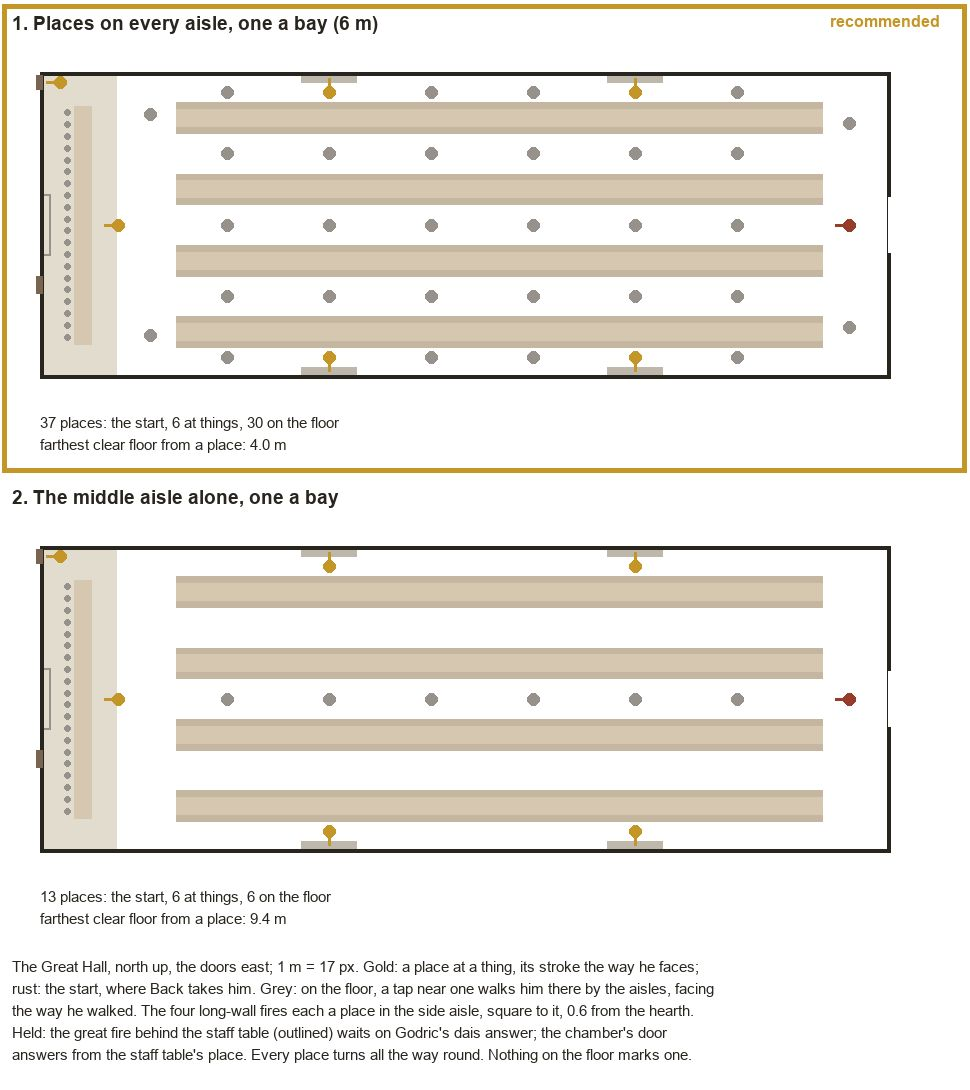
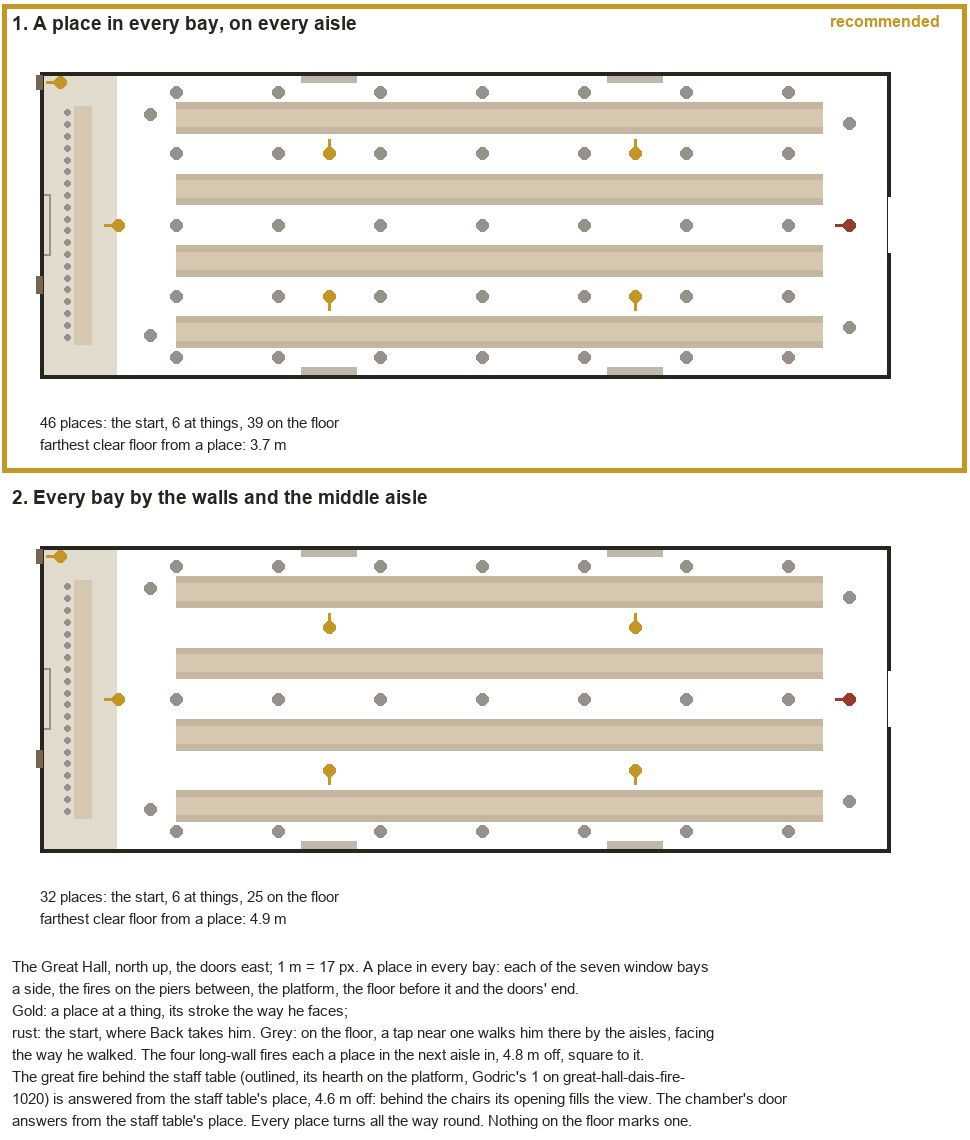
Great Hall: walking freely (46 places), the great fire on the platform; sheets greathall-places-1020 and greathall-fire-place-1020

diff --git a/page/great-hall.html b/page/great-hall.html
@@ -132,12 +132,12 @@ shot before anything is spent.
 <div id="help">Drag to look around.</div>
 <script src="https://cdnjs.cloudflare.com/ajax/libs/three.js/r128/three.min.js"></script>
 <script src="castle.js?v=15"></script>
-<script src="castle-model.js?v=390"></script>
-<script src="castle-paint.js?v=3"></script>
+<script src="castle-model.js?v=392"></script>
+<script src="castle-paint.js?v=4"></script>
 <script src="design/tones.js?v=2"></script>
 <script src="design/ceilings.js?v=2"></script>
 <script src="castle-shell.js?v=33"></script>
-<script src="castle-events.js?v=38"></script>
+<script src="castle-events.js?v=39"></script>
 <script src="castle-sound.js?v=1"></script>
 <script>
 (function () {
@@ -741,17 +741,18 @@ var staffL = new THREE.PointLight(0xffc27a, 0, 14, 1.6); staffL.position.copy(P(
    architect-fires-1020, 20 October 2026, 11.55 am; the Architect's req 746), drawn as shell.html's FIRES draws them: a
    four-centred head under a frieze in the hall's stone, the mantel shelf, the opening dark, the hearth stone into the
    hall. Cold and swept; the fire's light is Design's and the hour's, asked first. The great one behind the staff table
-   (great-hall-fire-w) waits on Godric's word on the dais (great-hall-dais-fire-1020). One group, no tap lands on it. */
+   (great-hall-fire-w) stands on the platform, its foot the model's sill (Godric's 1 on great-hall-dais-fire-1020,
+   12.51 pm; model v74). A tap on a fire walks him to its place (req 720); out.meshes are the pieces a tap finds. */
 var FIRES = (function () {
-  var out = { n: 0 };
-  var fs = MODEL.features.filter(function (f) { return f.room === PLACE && /^great-hall-fire-[ns]-/.test(f.id); });
+  var out = { n: 0, meshes: [] };
+  var fs = MODEL.features.filter(function (f) { return f.room === PLACE && /^great-hall-fire-/.test(f.id); });
   var g = new THREE.Group(); g.name = 'hall-fires'; scene.add(g);
   var T = window.CASTLE_TONES && CASTLE_TONES.surfaces && CASTLE_TONES.surfaces['high-grey'];
   var stone = kit.solid(T ? parseInt(T.hex.slice(1), 16) : 0xb9b4aa), dark = kit.solid(0x15130f), z0 = shell.place.floor;
   var up = new THREE.Vector3(0, 1, 0);
   fs.forEach(function (f) {
     var c = { 0: [0, -1], 180: [0, 1], 270: [1, 0], 90: [-1, 0] }[f.compass], w = f.w, ow = f.opening[0] / 2, oh = f.opening[1];
-    var o = shell.toLocal(f.at[0], f.at[1], z0), inn = shell.toLocal(f.at[0] + c[0], f.at[1] + c[1], z0).sub(o).normalize();
+    var o = shell.toLocal(f.at[0], f.at[1], z0 + (f.sill || 0)), inn = shell.toLocal(f.at[0] + c[0], f.at[1] + c[1], z0).sub(o).normalize();
     var along = new THREE.Vector3().crossVectors(up, inn);
     var q = new THREE.Group(); q.matrixAutoUpdate = false;
     q.matrix.makeBasis(along, up, inn).setPosition(o); g.add(q);
@@ -760,7 +761,7 @@ var FIRES = (function () {
     sh.quadraticCurveTo(-ow * 0.97, oh * 0.92, -sp, oh * 0.96); sh.lineTo(0, oh); sh.lineTo(sp, oh * 0.96);
     sh.quadraticCurveTo(ow * 0.97, oh * 0.92, ow, oh * 0.72); sh.lineTo(ow, -0.01); sh.lineTo(hw, -0.01);
     sh.lineTo(hw, f.mantel); sh.lineTo(-hw, f.mantel); sh.lineTo(-hw, -0.01);
-    function piece(geo, mt, x, y, z) { var m = new THREE.Mesh(geo, mt); m.position.set(x, y, z); m.userData.owner = PLACE; q.add(m); out.n++; return m; }
+    function piece(geo, mt, x, y, z) { var m = new THREE.Mesh(geo, mt); m.position.set(x, y, z); m.userData.owner = PLACE; m.userData.fire = f.id; q.add(m); out.meshes.push(m); out.n++; return m; }
     piece(new THREE.ExtrudeGeometry(sh, { depth: 0.2, bevelEnabled: false, curveSegments: 8 }), stone, 0, 0, -0.02);
     piece(new THREE.BoxGeometry(w + 0.3, 0.1, 0.36), stone, 0, f.mantel + 0.05, 0.16);                 /* the mantel shelf */
     piece(new THREE.BoxGeometry(w, f.h - f.mantel - 0.1, 0.12), stone, 0, (f.mantel + 0.1 + f.h) / 2, 0.04);   /* the frieze */
@@ -990,18 +991,100 @@ function startLeg() {
   var to = legs.shift(), from = { pos: camera.position.clone(), look: lookTmp.clone() }, dist = from.pos.distanceTo(to.pos);
   tween = { t: 0, dur: clamp(0.8 + dist * 0.08, 0.8, 4.5), from: from, to: to };
 }
-/* up the middle aisle, looking ahead along it at the walk's own height (Interaction: no stand mid-hall) */
+/* ================= walking freely (req 720; docs/interaction-vocabulary.md §2; Godric's 1 on greathall-places-1020,
+   12.54 pm, and his every-bay rule of the same minute): a place at every thing he can tap, square to it, and one in
+   every bay on every aisle (the bays' middles, x 23 to 59, the model's vault piers every 6 m between them), the floor
+   before the platform and the doors' end; the plan is tools/greathall-places.py, its numbers drawn from S here. A tap on
+   a thing walks him to its place; a tap on the floor to the nearest place, by the aisles and round the tables' ends,
+   arriving facing the way he walked; a tap on a wall or the air keeps him where he is. Every place turns all the way
+   round. Only Back takes him to the start. Nothing marks a place. */
+var O0 = shell.toLocal(0, 0, 0), EX = shell.toLocal(1, 0, 0).sub(O0), EY = shell.toLocal(0, 1, 0).sub(O0);
+function toModel(v) {   /* the shell's local point back to the model's x, y (the frame is a plane turn and a shift) */
+  var a = v.x - O0.x, b = v.z - O0.z, det = EX.x * EY.z - EY.x * EX.z;
+  return [(a * EY.z - EY.x * b) / det, (EX.x * b - a * EX.z) / det];
+}
+var EYE = START.pos.y - P(0, 0, shell.place.floor).y, DAIS_TOP = S.dais.h, ROUND = { down: -30, up: 80, turn: 180 };
+var AISLE = [], SIDE_N = 68.3, SIDE_S = 52.7, FRONT_X = 21.5, BACK_X = 62.6;
+for (var ai = 0; ai < S.tables.length - 1; ai++) AISLE.push((S.tables[ai][1] + S.tables[ai + 1][1]) / 2);
+AISLE = [SIDE_N].concat(AISLE, [SIDE_S]);   /* 68.3, 64.7, 60.5, 56.3, 52.7: between the outer benches and the hearths */
+function onDais(x) { return x < S.dais.x1; }
+function eyeAt(x, y) { return P(x, y, shell.place.floor + (onDais(x) ? DAIS_TOP : 0) + EYE); }
+function place(name, x, y, face) {
+  var pos = eyeAt(x, y);
+  return { name: name, xy: [x, y], pos: pos, look: face ? eyeAt(x + face[0] * 10, y + face[1] * 10) : pos.clone(), lim: ROUND, floor: !face };
+}
+[START, STAFF_STAND, PANEL && PANEL.stand].forEach(function (s) { if (s) { s.xy = toModel(s.pos); s.lim = Object.assign({}, s.lim, { turn: 180 }); } });
+var PLACES = [START, STAFF_STAND].concat(PANEL ? [PANEL.stand] : []), FIRE_PLACE = {};
+MODEL.features.filter(function (f) { return f.room === PLACE && /^great-hall-fire-/.test(f.id); }).forEach(function (f) {
+  var c = { 0: [0, 1], 180: [0, -1], 270: [-1, 0], 90: [1, 0] }[f.compass];
+  /* the great one's place is the staff table's, square to it over the gold chair 4.6 m off: behind the chairs the
+     platform leaves 1 m to its hearth, where its dark opening fills the whole view */
+  if (f.compass === 270) { FIRE_PLACE[f.id] = STAFF_STAND; return; }
+  /* a long-wall fire's place stands in the next aisle in, 4.8 m off across the house table, the fire whole in view:
+     from the side aisle, 1.2 m off, its dark opening fills the view (provisional, Godric to confirm: greathall-fire-place-1020) */
+  var p = place(f.id, f.at[0], f.compass === 0 ? AISLE[1] : AISLE[3], c);
+  FIRE_PLACE[f.id] = p; PLACES.push(p);
+});
+var FLOOR = [];
+AISLE.forEach(function (y) { [23, 29, 35, 41, 47, 53, 59].forEach(function (x) { FLOOR.push(place('floor ' + (FLOOR.length + 1), x, y)); }); });
+[[FRONT_X, 54.0], [FRONT_X, 67.0], [BACK_X, 54.5], [BACK_X, 66.5]].forEach(function (q) { FLOOR.push(place('floor ' + (FLOOR.length + 1), q[0], q[1])); });
+PLACES = PLACES.concat(FLOOR);
+/* the way between two points of the plan: along an aisle, round the tables' nearer end, up the platform's steps by its
+   north end (clear of the staff table and its chairs) */
+function zone(p) { return onDais(p[0]) ? 'dais' : p[0] < S.tx0 - 0.1 ? 'front' : p[0] > S.tx1 + 0.1 ? 'back' : 'aisle'; }
+function aisleOf(p) { return AISLE.reduce(function (b, y) { return Math.abs(y - p[1]) < Math.abs(b - p[1]) ? y : b; }, AISLE[0]); }
+function route(a, b) {
+  var za = zone(a), zb = zone(b), pts = [];
+  if (za === 'dais' || zb === 'dais') {
+    if (za === 'dais' && zb === 'dais') return [b];
+    var up = [[S.dais.x1 - 0.7, 68.6], [S.dais.x1 + 0.4, 68.6]];
+    if (za === 'dais') return [[16.0, 68.6], up[0], up[1]].concat(route(up[1], b));
+    return route(a, up[1]).concat([up[0], [16.0, 68.6], b]);
+  }
+  if (za === 'aisle' && zb === 'aisle' && aisleOf(a) === aisleOf(b)) return [b];
+  if (za !== 'aisle' && zb !== 'aisle') {
+    if (za === zb) return [b];
+    var ex0 = za === 'front' ? FRONT_X : BACK_X, ex1 = zb === 'front' ? FRONT_X : BACK_X;
+    return [[ex0, 60.5], [ex1, 60.5], b];
+  }
+  var ex;
+  if (za !== 'aisle') ex = za === 'front' ? FRONT_X : BACK_X;
+  else if (zb !== 'aisle') ex = zb === 'front' ? FRONT_X : BACK_X;
+  else ex = (Math.abs(a[0] - FRONT_X) + Math.abs(b[0] - FRONT_X)) <= (Math.abs(a[0] - BACK_X) + Math.abs(b[0] - BACK_X)) ? FRONT_X : BACK_X;
+  if (za === 'aisle') pts.push([ex, aisleOf(a)]);
+  if (zb === 'aisle') pts.push([ex, aisleOf(b)]);
+  pts.push(b);
+  return pts;
+}
 function walkTo(s) {
   if (!s || s === here) return false;
   if (PANEL && here === PANEL.stand && panelOpen) panelShow(false);   /* it shuts behind him (provisional) */
+  var from = here.xy || toModel(here.pos), pts = route(from, s.xy || toModel(s.pos)), prev = from;
   legs = []; here = s; hy = hyT = hp = hpT = 0;
-  var fp = new THREE.Vector3(), fl = new THREE.Vector3(); headPose(fp, fl);
-  legs.push({ pos: fp, look: fl });
+  pts.forEach(function (q, i) {
+    var pos = eyeAt(q[0], q[1]), last = i === pts.length - 1;
+    var dir = pos.clone().sub(eyeAt(prev[0], prev[1])); dir.y = 0;
+    if (last && s.floor && dir.lengthSq() > 1e-4) s.look = pos.clone().add(dir.setLength(10));   /* facing the way he walked */
+    if (last) { var fp = new THREE.Vector3(), fl = new THREE.Vector3(); headPose(fp, fl); legs.push({ pos: fp, look: fl }); }
+    else {
+      var nx = pts[i + 1], ahead = eyeAt(nx[0], nx[1]);
+      legs.push({ pos: pos, look: ahead.clone().sub(pos).setLength(10).add(pos) });
+    }
+    prev = q;
+  });
   backBtn.hidden = s === START;
   startLeg();
   return true;
 }
-function goBack() { if (here === START) { hyT = hpT = 0; return; } walkTo(PANEL && here === PANEL.stand ? STAFF_STAND : START); }
+function nearestPlace(pt) {   /* a floor tap: the nearest place on the hall's floor to where his finger lifted */
+  var xy = toModel(pt), best = null, bd = 1e9;
+  PLACES.forEach(function (s) {
+    if (!s.xy || onDais(s.xy[0])) return;
+    var d = Math.hypot(s.xy[0] - xy[0], s.xy[1] - xy[1]); if (d < bd) { bd = d; best = s; }
+  });
+  return best;
+}
+function goBack() { if (here === START) { hyT = hpT = 0; return; } walkTo(START); }
 var DRY = Q.get('travel') === 'dry', wentTo = '';   /* ?travel=dry: the veil falls and lifts, nothing loads, for a check */
 function through(d) {
   wentTo = (d.page || 'shell.html?place=' + encodeURIComponent(d.to)) + (d.page ? '?' : '&') + 'from=' + encodeURIComponent(PLACE);
@@ -1142,27 +1225,32 @@ function tap(cx, cy) {
   var r = canvas.getBoundingClientRect();
   pointer.set(((cx - r.left) / r.width) * 2 - 1, -((cy - r.top) / r.height) * 2 + 1);
   raycaster.setFromCamera(pointer, camera);
-  var hits = raycaster.intersectObjects(shell.group.children.concat(tapTop, doorway ? [doorway] : []), false).filter(function (h) { return h.object.visible || h.object.userData.way; });
+  var hits = raycaster.intersectObjects(shell.group.children.concat(tapTop, FIRES.meshes, doorway ? [doorway] : []), false).filter(function (h) { return h.object.visible || h.object.userData.way; });
   var hit = hits.length ? hits[0].object : null, acted = false;
-  /* a candle or the sky answers where it is, told and given the mote, never taking him back (req 608, break 3); only
-     the floor, the walls and the benches are nothing at a stop */
+  /* a candle or the sky answers where it is, told and given the mote, never taking him back (req 608, break 3); the
+     floor walks him to its nearest place (req 720), a wall keeps him where he is */
   var high = candleOnRay(raycaster.ray, hits.length ? hits[0].distance : 1e9) ? 'candle' : hit && hit === ceiling ? 'sky' : '';
   var isDoors = hit && DOOR && (hit === doorway || hit === DOOR.mesh), isPanel = !!(hit && PANEL && hit === PANEL.mesh);
   var wi = hit && !isDoors ? wayMeshes.indexOf(hit) : -1;
   if (high) { /* the mote, nothing else, until Magic's answer */ }
   else if (isPanel && here === PANEL.stand) acted = true;
-  else if (isPanel && here === STAFF_STAND) acted = walkTo(PANEL.stand);
-  else if (isDoors) {   /* the great doors: through from their stand, back to it from the staff table (§2) */
-    if (here === START || here === DOOR.stand) { goThroughDoors(); acted = true; } else { goBack(); acted = true; }
+  else if (isPanel) acted = walkTo(PANEL.stand);
+  else if (isDoors) {   /* the great doors: through from their place (the start), walked to it from anywhere else (§2) */
+    if (here === START || here === DOOR.stand) { goThroughDoors(); acted = true; } else acted = walkTo(START);
   } else if (wi >= 0) {
     var d = ways[wi];
     if (here === d.stand || here === START) { if (d.mesh.userData.way && d.built) { through(d); acted = true; } }
+    else acted = walkTo(d.stand && PLACES.indexOf(d.stand) >= 0 ? d.stand : START);
+  } else if (hit && hit.userData.fire) {   /* a fire: walk to its place, square to it; at it, told where he is */
+    acted = here === FIRE_PLACE[hit.userData.fire] || walkTo(FIRE_PLACE[hit.userData.fire]);
   } else if (hit && tapTop.indexOf(hit) >= 0) {   /* the platform, the staff table, the gold chair: walk up to them, or at */
-    if (here === START || (PANEL && here === PANEL.stand)) acted = walkTo(STAFF_STAND);   /* their stop answer where they are (req 608, break 2) */
-  } else if (here !== START) { goBack(); acted = true; }
+    if (here !== STAFF_STAND) acted = walkTo(STAFF_STAND);   /* their place answer where they are (req 608, break 2) */
+  } else if (hit && hits[0].face && hits[0].face.normal.clone().transformDirection(hit.matrixWorld).y > 0.7) {
+    acted = walkTo(nearestPlace(hits[0].point));   /* the floor: the nearest place, by the aisles */
+  }   /* a wall or the air: he stays, with the mote */
   /* every tap on a thing is told to the runtime (Interaction's §10, req 479): the platform, the staff table, the gold
      chair, the doors' way, the sky and a candle, by their names with spaces, so a record waiting on one can fire */
-  var told = high || (isPanel && here === PANEL.stand && !tween ? PANEL.id : '') || (isDoors ? DOOR.id : wi >= 0 ? ways[wi].id : hit && tapTop.indexOf(hit) >= 0 ? hit.name : '');
+  var told = high || (isPanel && here === PANEL.stand && !tween ? PANEL.id : '') || (isDoors ? DOOR.id : wi >= 0 ? ways[wi].id : hit && hit.userData.fire ? hit.userData.fire : hit && tapTop.indexOf(hit) >= 0 ? hit.name : '');
   if (told) { lastTold = told.replace(/-/g, ' '); if (events && events.tap) events.tap(lastTold); }
   kit.tapped(acted);
 }
@@ -1256,9 +1344,10 @@ window.lumosGreybox = { scene: scene, camera: camera, zoom: kit.zoom, tap: tap, 
   howler: function () { var n = 0; for (var c in CUES) if (c.indexOf(PSWING) !== 0 && c.indexOf(KNOCK) !== 0) { CUES[c](); n++; } return n; }, heard: function () { return heardLast; },
   panel: function () { return { open: panelOpen, swinging: !!panelSwing, cut: !!PCUT, cues: Object.keys(CUES).filter(function (c) { return c.indexOf(PSWING) === 0 || c.indexOf(KNOCK) === 0; }).length }; },
   breathe: breathe, fade: startFade, stutter: function () { var n = 0; for (var i = 0; i < NC; i++) if (stut[i] > 0.5) n++; return n; }, measure: function () { return MEASURE && MEASURE.result; }, told: function () { return lastTold; },
-  stand: function () { return here.name; }, wentTo: function () { return wentTo; }, stands: shell.stands.map(function (s) { return s.name; }),
+  stand: function () { return here.name; }, places: function () { return PLACES.map(function (s) { return s.name + ' ' + (s.xy || []).map(function (v) { return v.toFixed(1); }).join(','); }); },
+  walk: function (n) { return walkTo(PLACES.filter(function (x) { return x.name === n; })[0]); }, legs: function () { return legs.length + (tween ? 1 : 0); }, wentTo: function () { return wentTo; }, stands: shell.stands.map(function (s) { return s.name; }),
   standNamed: function (n) {
-    var s = shell.stands.filter(function (x) { return x.name === n; })[0]; if (!s) return false;
+    var s = shell.stands.concat(PLACES).filter(function (x) { return x.name === n; })[0]; if (!s) return false;
     tween = null; legs = []; here = s; hy = hyT = hp = hpT = 0; backBtn.hidden = s === START; headPose(camera.position, lookTmp); camera.lookAt(lookTmp); return true;
   },
   look: function (y, p) { var lm = limits(here); hy = hyT = lm.yaw == null ? y : clamp(y, -lm.yaw, lm.yaw); hp = hpT = clamp(p, lm.lo, lm.hi); return { yaw: hy, pitch: hp }; },
